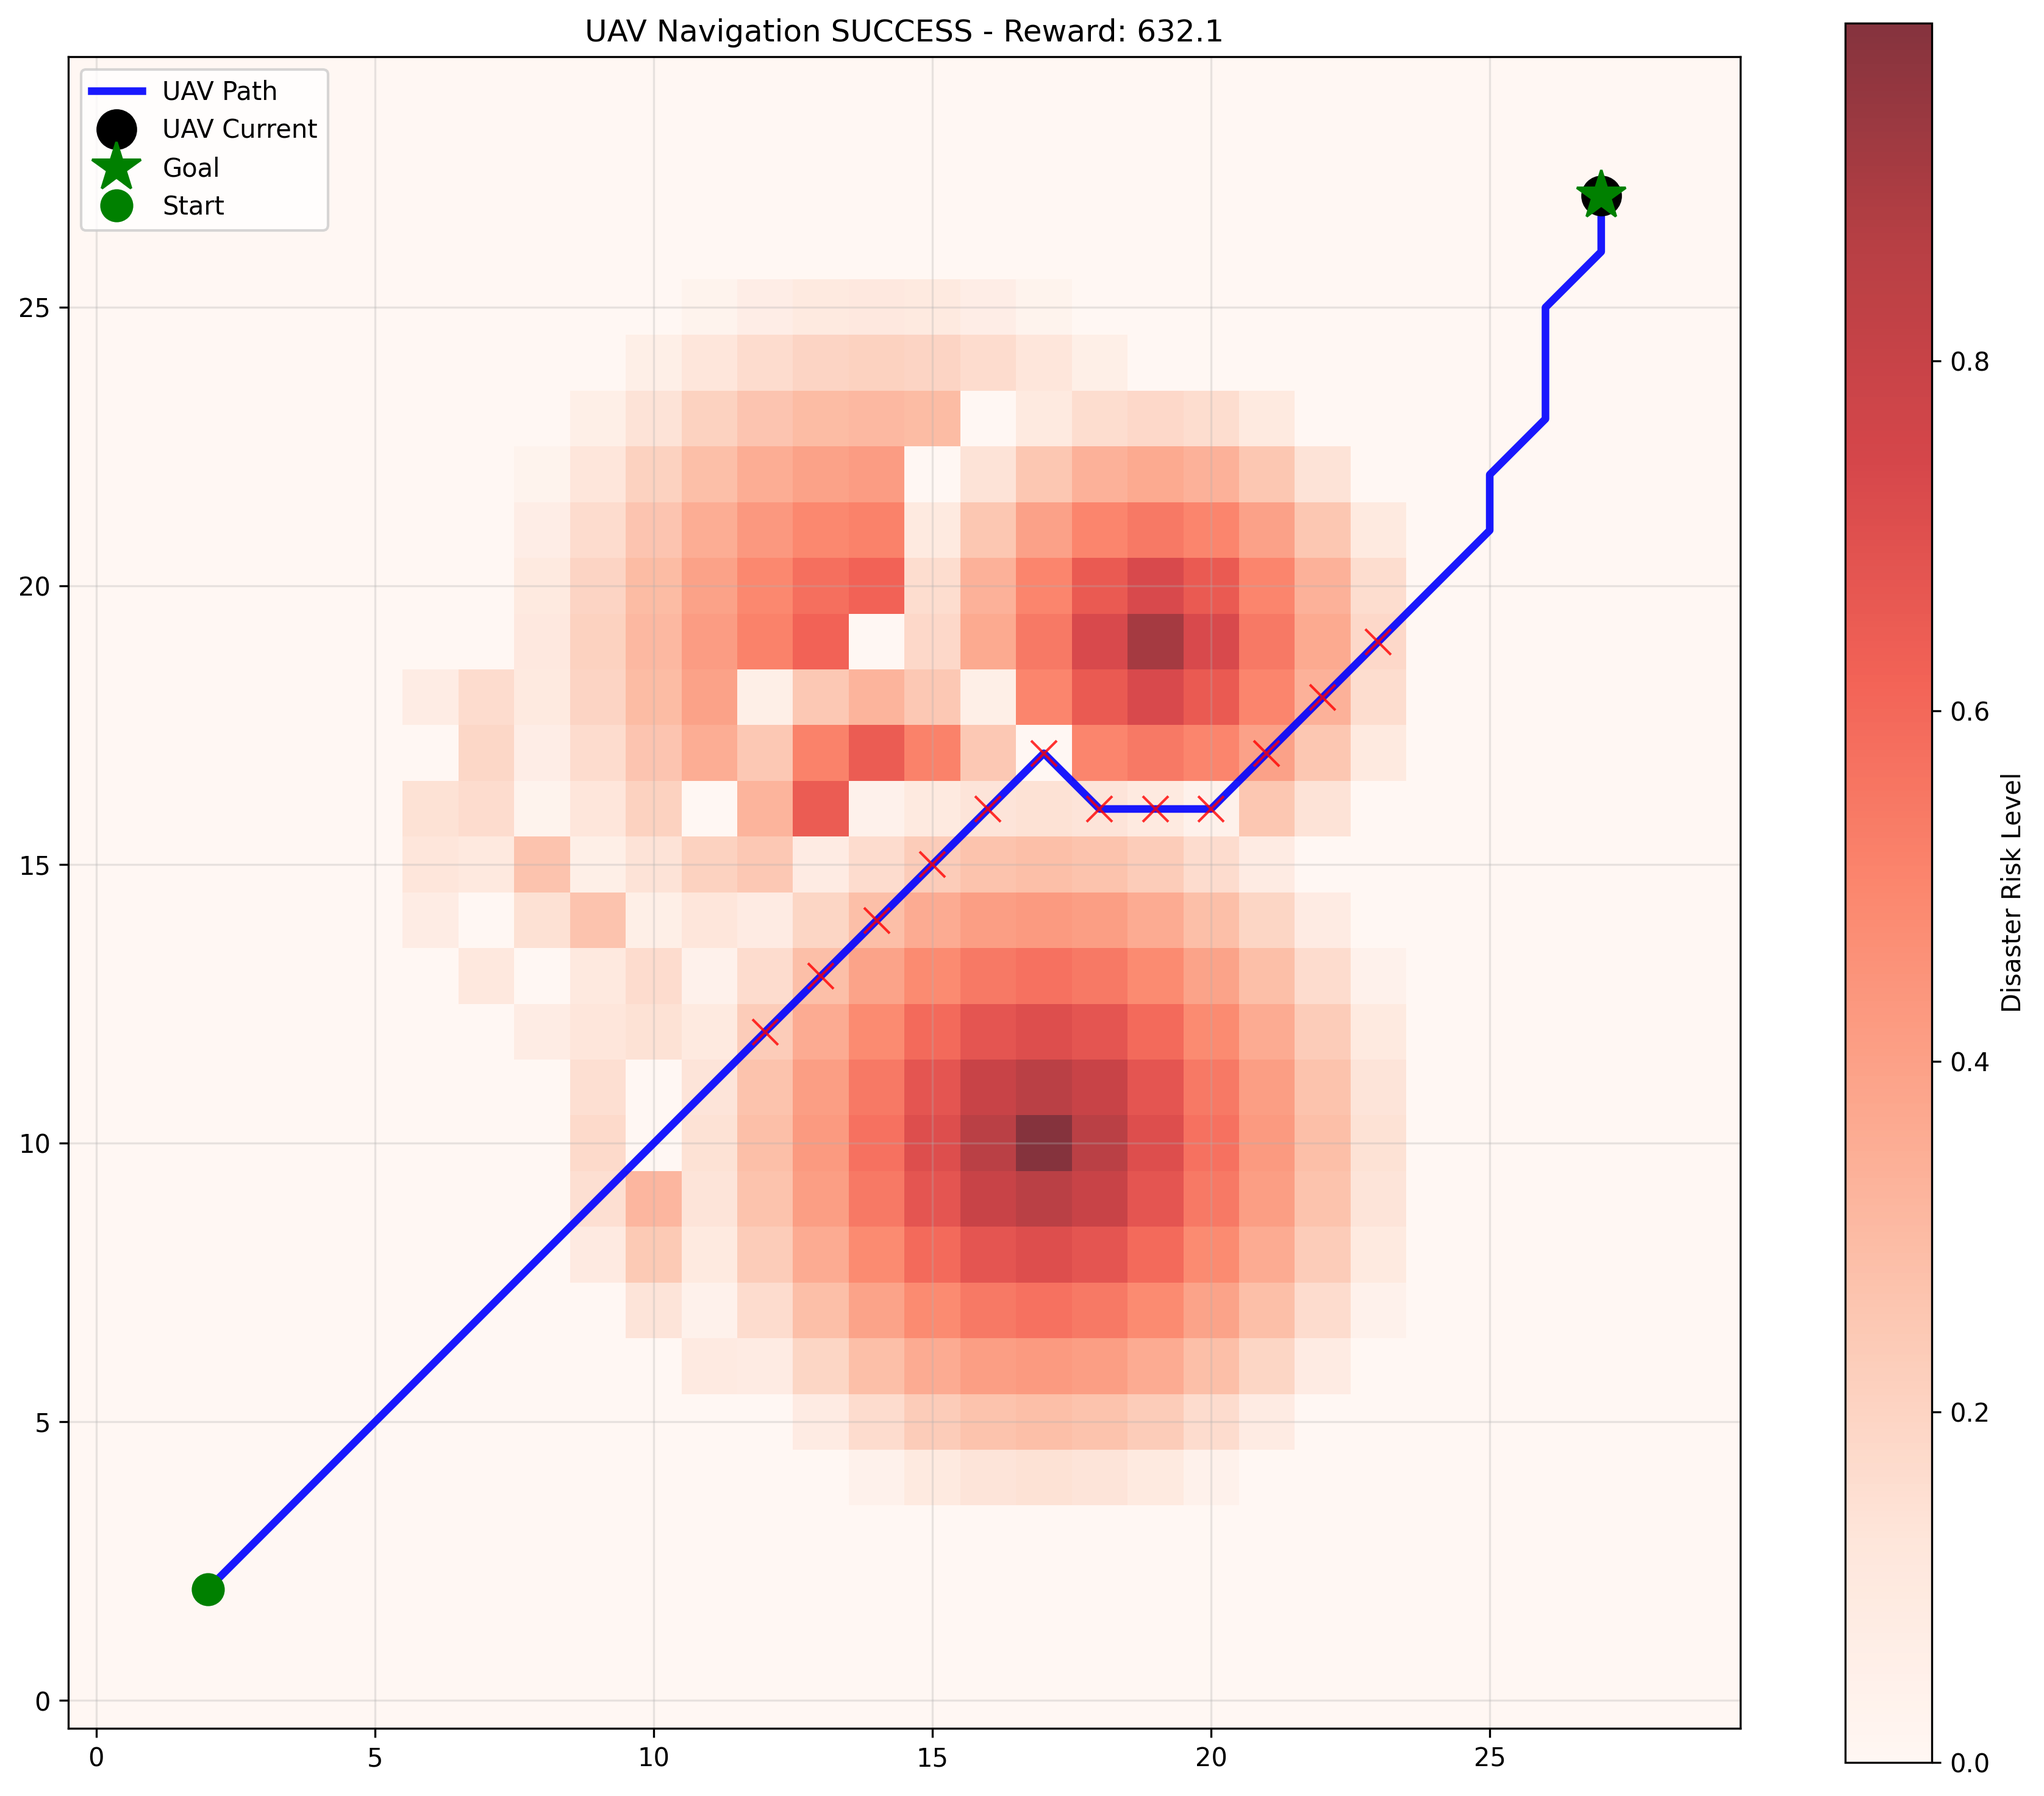
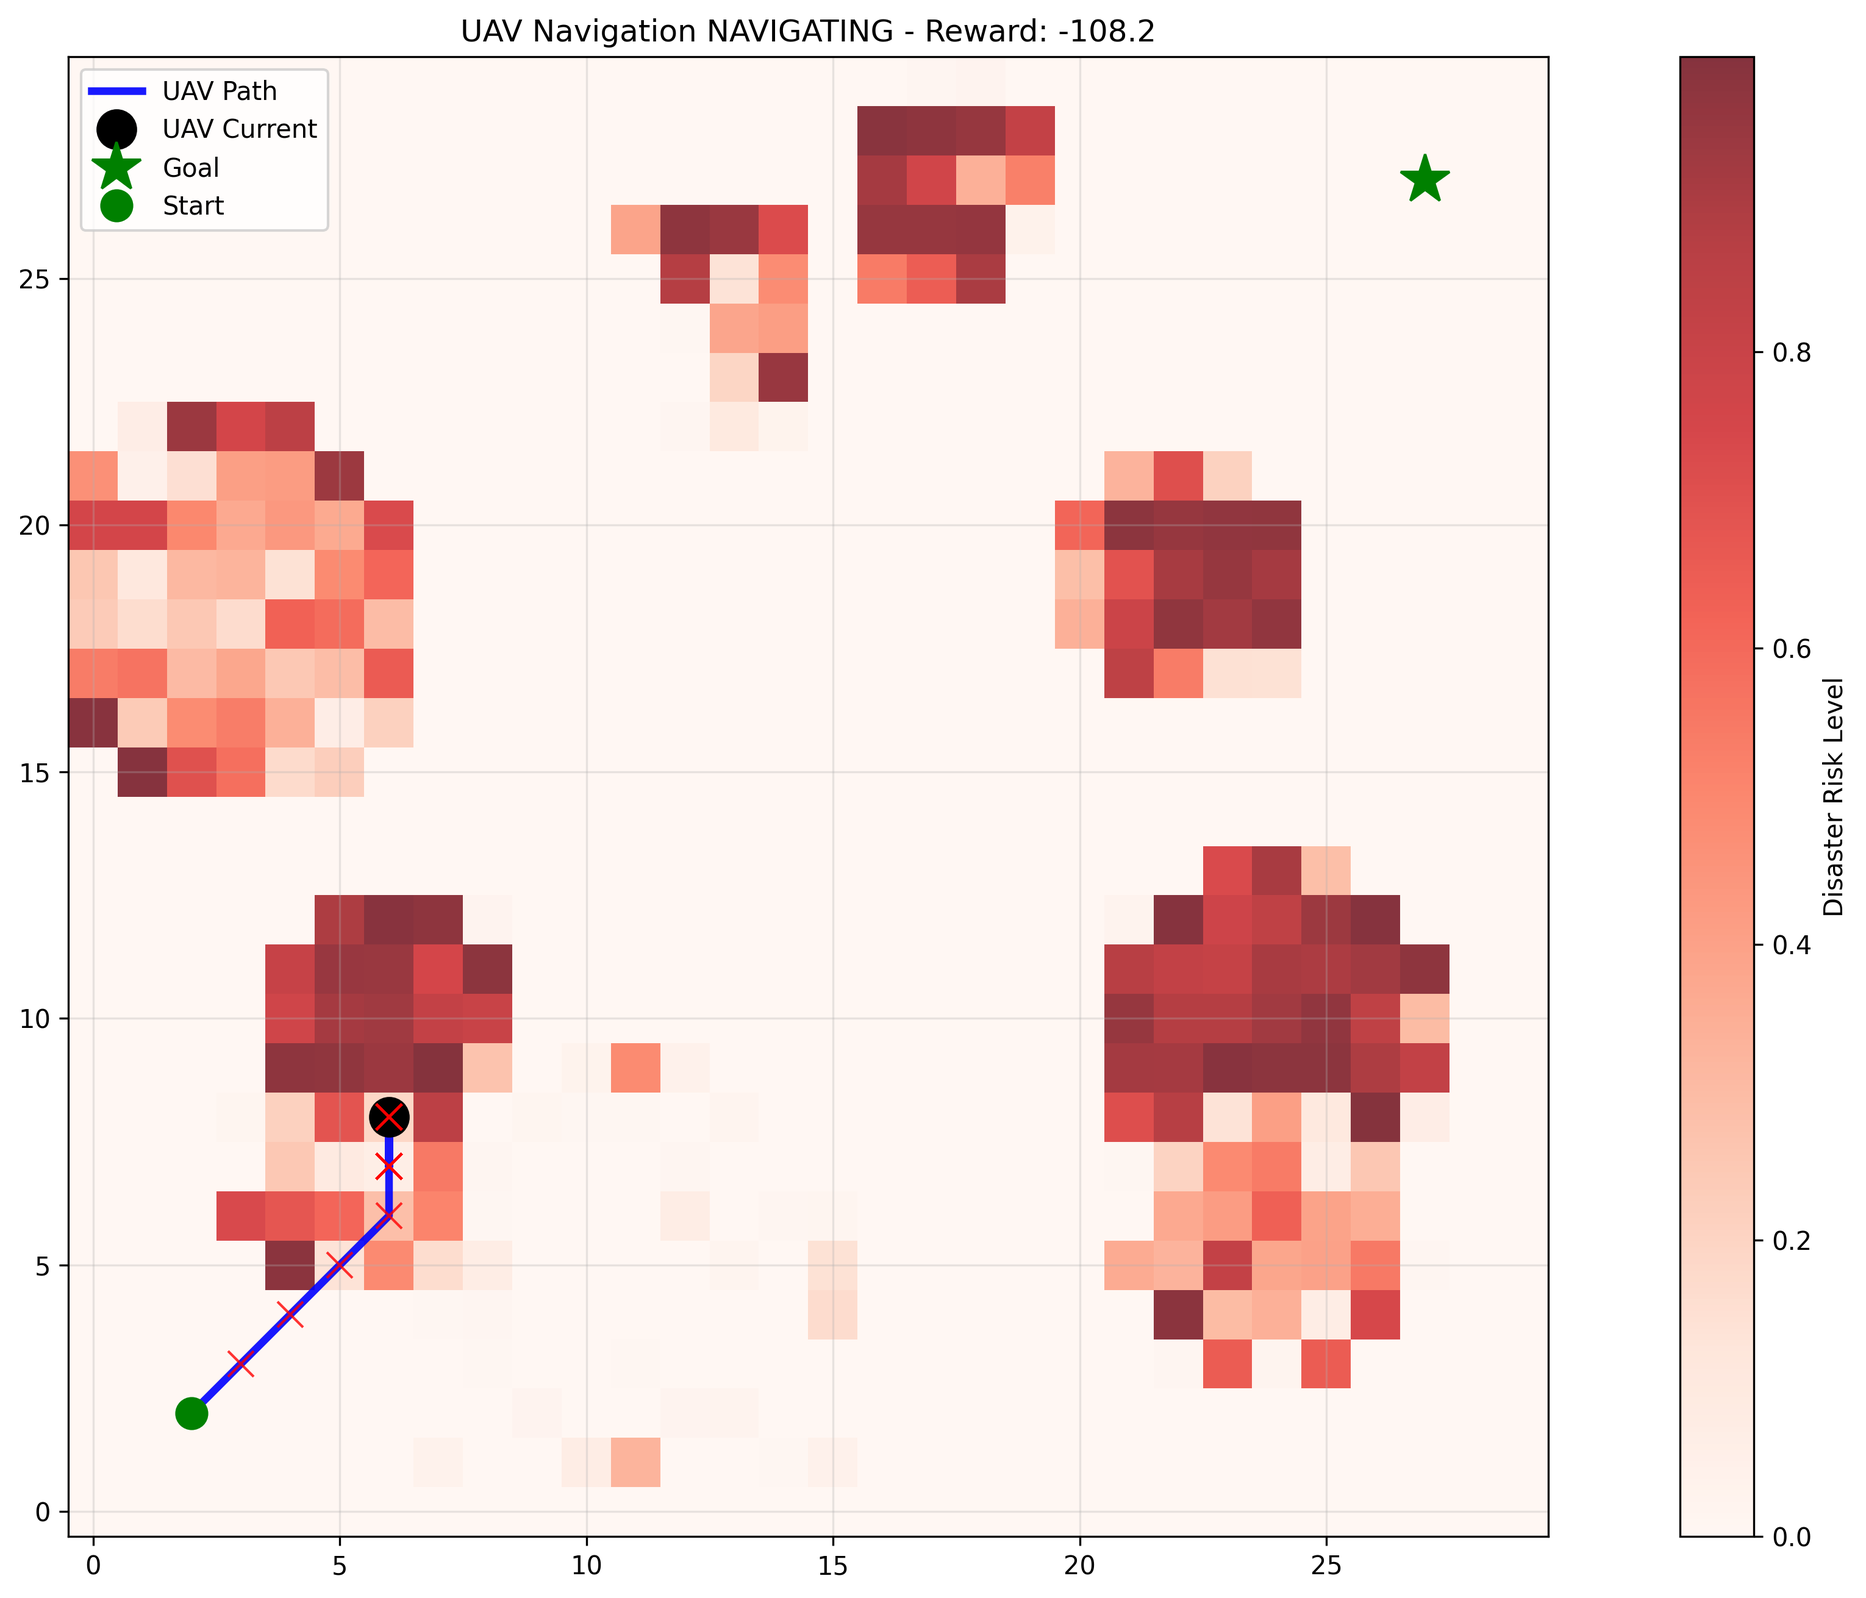
Integrate real-time aerial imagery processing with disaster classifier

diff --git a/navigation/aerial_image_processor.py b/navigation/aerial_image_processor.py
@@ -1,0 +1,198 @@
+import numpy as np
+import torch
+import cv2
+from PIL import Image
+import matplotlib.pyplot as plt
+import sys
+import os
+
+sys.path.append(os.path.dirname(os.path.dirname(os.path.abspath(__file__))))
+from config import TrainingConfig
+from models import create_model
+from disaster_dataset import get_transforms
+
+class AerialImageProcessor:
+    def __init__(self, classifier_path: str = "../checkpoints/best_model.pth"):
+        self.device = torch.device('cuda' if torch.cuda.is_available() else 'cpu')
+        self._load_classifier(classifier_path)
+        
+    def _load_classifier(self, model_path: str):
+        checkpoint = torch.load(model_path, map_location=self.device, weights_only=False)
+        
+        self.config = checkpoint['config']
+        self.class_to_idx = checkpoint['class_to_idx']
+        self.idx_to_class = {v: k for k, v in self.class_to_idx.items()}
+        
+        self.classifier = create_model(
+            model_name=self.config.model_name,
+            num_classes=self.config.num_classes
+        )
+        self.classifier.load_state_dict(checkpoint['model_state_dict'])
+        self.classifier.eval()
+        
+        _, self.transform = get_transforms(self.config.input_size, augment=False)
+        
+    def generate_aerial_scene(self, grid_size: int = 30) -> np.ndarray:
+        aerial_image = np.zeros((grid_size * 20, grid_size * 20, 3), dtype=np.uint8)
+        
+        aerial_image[:, :] = [34, 139, 34]
+        
+        num_disasters = np.random.randint(5, 12)
+        disaster_locations = []
+        
+        for _ in range(num_disasters):
+            disaster_type = np.random.choice(['fire', 'collapsed_building', 'flooded_areas', 'traffic_incident'])
+            
+            center_x = np.random.randint(50, grid_size * 20 - 50)
+            center_y = np.random.randint(50, grid_size * 20 - 50)
+            
+            size = np.random.randint(30, 80)
+            
+            if disaster_type == 'fire':
+                color = [220, 20, 20]  
+                intensity = np.random.uniform(0.7, 1.0)
+            elif disaster_type == 'collapsed_building':
+                color = [105, 105, 105]  
+                intensity = np.random.uniform(0.8, 1.0)
+            elif disaster_type == 'flooded_areas':
+                color = [30, 144, 255]  
+                intensity = np.random.uniform(0.6, 0.9)
+            else:  
+                color = [255, 255, 0]  
+                intensity = np.random.uniform(0.5, 0.8)
+            
+            cv2.circle(aerial_image, (center_y, center_x), size, color, -1)
+            
+            noise = np.random.randint(-30, 30, (size*2, size*2, 3))
+            x_start = max(0, center_x - size)
+            x_end = min(grid_size * 20, center_x + size)
+            y_start = max(0, center_y - size)
+            y_end = min(grid_size * 20, center_y + size)
+            
+            area = aerial_image[x_start:x_end, y_start:y_end]
+            noise_area = noise[:area.shape[0], :area.shape[1]]
+            aerial_image[x_start:x_end, y_start:y_end] = np.clip(area + noise_area, 0, 255)
+            
+            disaster_locations.append({
+                'type': disaster_type,
+                'position': (center_x // 20, center_y // 20),
+                'intensity': intensity,
+                'grid_coords': (center_x // 20, center_y // 20)
+            })
+        
+        return aerial_image.astype(np.uint8), disaster_locations
+    
+    def process_aerial_image_grid(self, aerial_image: np.ndarray, grid_size: int = 30) -> tuple:
+        hazard_map = np.zeros((grid_size, grid_size))
+        confidence_map = np.zeros((grid_size, grid_size))
+        
+        cell_size = aerial_image.shape[0] // grid_size
+        
+        for i in range(grid_size):
+            for j in range(grid_size):
+                x_start = i * cell_size
+                x_end = (i + 1) * cell_size
+                y_start = j * cell_size
+                y_end = (j + 1) * cell_size
+                
+                cell_image = aerial_image[x_start:x_end, y_start:y_end]
+                
+                hazard_prob, confidence = self._classify_image_patch(cell_image)
+                hazard_map[i, j] = hazard_prob
+                confidence_map[i, j] = confidence
+        
+        return hazard_map, confidence_map
+    
+    def _classify_image_patch(self, image_patch: np.ndarray) -> tuple:
+        if image_patch.size == 0:
+            return 0.0, 0.0
+        
+        image_pil = Image.fromarray(image_patch)
+        
+        try:
+            image_tensor = self.transform(image_pil).unsqueeze(0).to(self.device)
+            
+            with torch.no_grad():
+                outputs = self.classifier(image_tensor)
+                probabilities = torch.softmax(outputs, dim=1)
+                
+                disaster_classes = ['fire', 'collapsed_building', 'flooded_areas', 'traffic_incident']
+                disaster_prob = 0.0
+                max_confidence = 0.0
+                
+                for cls in disaster_classes:
+                    if cls in self.class_to_idx:
+                        prob = probabilities[0][self.class_to_idx[cls]].item()
+                        disaster_prob += prob
+                        max_confidence = max(max_confidence, prob)
+                
+                overall_confidence = torch.max(probabilities).item()
+                
+                return min(disaster_prob, 1.0), overall_confidence
+                
+        except Exception as e:
+            return 0.0, 0.0
+    
+    def visualize_aerial_analysis(self, aerial_image: np.ndarray, hazard_map: np.ndarray, 
+                                 confidence_map: np.ndarray, save_path: str = None):
+        fig, axes = plt.subplots(1, 3, figsize=(18, 6))
+        
+        axes[0].imshow(aerial_image)
+        axes[0].set_title('Generated Aerial Imagery')
+        axes[0].axis('off')
+        
+        im1 = axes[1].imshow(hazard_map, cmap='Reds', alpha=0.8)
+        axes[1].set_title('Classified Disaster Risk Map')
+        plt.colorbar(im1, ax=axes[1], label='Disaster Probability')
+        
+        im2 = axes[2].imshow(confidence_map, cmap='Blues', alpha=0.8)
+        axes[2].set_title('Classification Confidence Map')
+        plt.colorbar(im2, ax=axes[2], label='Confidence Level')
+        
+        plt.tight_layout()
+        
+        if save_path:
+            plt.savefig(save_path, dpi=300, bbox_inches='tight')
+        
+        return fig
+
+def demonstrate_aerial_image_processing():
+    print("Aerial Image Processing with Disaster Detection")
+    print("Real-time classification of simulated aerial imagery")
+    print("-" * 60)
+    
+    processor = AerialImageProcessor()
+    
+    print(f"Classifier: {processor.config.model_name}")
+    print(f"Classes: {list(processor.class_to_idx.keys())}")
+    print("Generating aerial scene...")
+    
+    aerial_image, disaster_locations = processor.generate_aerial_scene(grid_size=30)
+    
+    print(f"Generated {len(disaster_locations)} disaster zones:")
+    for i, disaster in enumerate(disaster_locations):
+        print(f"  {i+1}. {disaster['type']} at grid {disaster['grid_coords']} (intensity: {disaster['intensity']:.2f})")
+    
+    print("\nProcessing aerial imagery through disaster classifier...")
+    hazard_map, confidence_map = processor.process_aerial_image_grid(aerial_image, grid_size=30)
+    
+    detected_hazards = np.sum(hazard_map > 0.3)
+    avg_confidence = np.mean(confidence_map)
+    max_risk = np.max(hazard_map)
+    
+    print(f"Detection Results:")
+    print(f"  High-risk areas detected: {detected_hazards}")
+    print(f"  Maximum risk level: {max_risk:.3f}")
+    print(f"  Average confidence: {avg_confidence:.3f}")
+    
+    fig = processor.visualize_aerial_analysis(aerial_image, hazard_map, confidence_map, 
+                                            'aerial_image_analysis.png')
+    plt.show()
+    
+    print("\nAerial image processing demonstration complete!")
+    print("System ready for real-time UAV navigation integration.")
+    
+    return hazard_map, confidence_map, disaster_locations
+
+if __name__ == "__main__":
+    demonstrate_aerial_image_processing()

diff --git a/navigation/uav_environment.py b/navigation/uav_environment.py
@@ -14,6 +14,7 @@ sys.path.append(os.path.dirname(os.path.dirname(os.path.abspath(__file__))))
 from config import TrainingConfig
 from models import create_model
 from disaster_dataset import get_transforms
+from aerial_image_processor import AerialImageProcessor
 
 class UAVNavigationEnv(gym.Env):
     def __init__(self, grid_size: int = 50, max_steps: int = 200, 
@@ -32,6 +33,7 @@ class UAVNavigationEnv(gym.Env):
         )
         
         self._load_disaster_classifier(classifier_path)
+        self.aerial_processor = AerialImageProcessor(classifier_path)
         self._initialize_environment()
         
     def _load_disaster_classifier(self, model_path: str):
@@ -62,30 +64,16 @@ class UAVNavigationEnv(gym.Env):
         self.path_history = [self.uav_position.copy()]
         
     def _generate_disaster_zones(self):
-        disaster_types = ['fire', 'collapsed_building', 'flooded_areas', 'traffic_incident']
-        num_zones = np.random.randint(8, 15)
+        print("Generating aerial imagery and processing through disaster classifier...")
         
-        for _ in range(num_zones):
-            center = np.random.randint(10, self.grid_size-10, 2)
-            
-            if np.linalg.norm(center - self.goal_position) < 8:
-                continue
-            if np.linalg.norm(center - self.uav_position) < 8:
-                continue
-                
-            zone_size = np.random.randint(3, 8)
-            disaster_type = np.random.choice(disaster_types)
-            intensity = np.random.uniform(0.6, 1.0)
-            
-            for dx in range(-zone_size, zone_size+1):
-                for dy in range(-zone_size, zone_size+1):
-                    x, y = center[0] + dx, center[1] + dy
-                    if 0 <= x < self.grid_size and 0 <= y < self.grid_size:
-                        distance = np.sqrt(dx**2 + dy**2)
-                        if distance <= zone_size:
-                            fade_factor = max(0, 1 - distance / zone_size)
-                            self.hazard_map[x, y] = min(1.0, intensity * fade_factor)
-                            self.confidence_map[x, y] = np.random.uniform(0.7, 0.95)
+        self.aerial_image, self.disaster_locations = self.aerial_processor.generate_aerial_scene(self.grid_size)
+        
+        self.hazard_map, self.confidence_map = self.aerial_processor.process_aerial_image_grid(
+            self.aerial_image, self.grid_size
+        )
+        
+        print(f"Processed aerial imagery: {len(self.disaster_locations)} disaster zones detected")
+        print(f"Classifier identified {np.sum(self.hazard_map > 0.3)} high-risk grid cells")
     
     def _get_observation(self):
         obs = np.zeros((self.grid_size, self.grid_size, 4))
@@ -100,12 +88,18 @@ class UAVNavigationEnv(gym.Env):
     
     def _classify_current_area(self):
         x, y = self.uav_position
+        
+        current_hazard = self.hazard_map[x, y]
+        current_confidence = self.confidence_map[x, y]
+        
         local_area = self.hazard_map[max(0, x-2):min(self.grid_size, x+3),
                                     max(0, y-2):min(self.grid_size, y+3)]
         
-        if np.any(local_area > 0.5):
-            return np.max(local_area), True
-        return 0.0, False
+        max_local_hazard = np.max(local_area) if local_area.size > 0 else 0.0
+        
+        in_danger = current_hazard > 0.5 or max_local_hazard > 0.7
+        
+        return max(current_hazard, max_local_hazard), in_danger
     
     def step(self, action: int) -> Tuple[np.ndarray, float, bool, Dict]:
         self.current_step += 1
